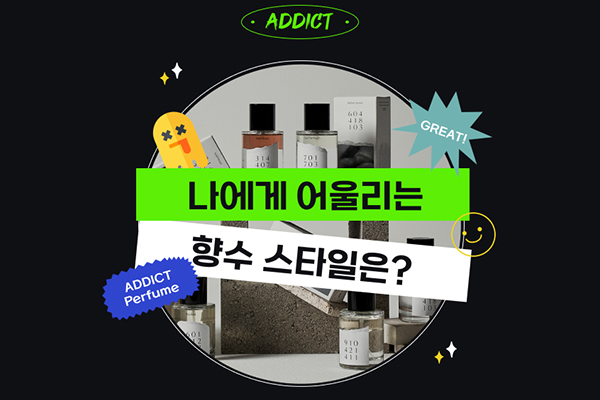
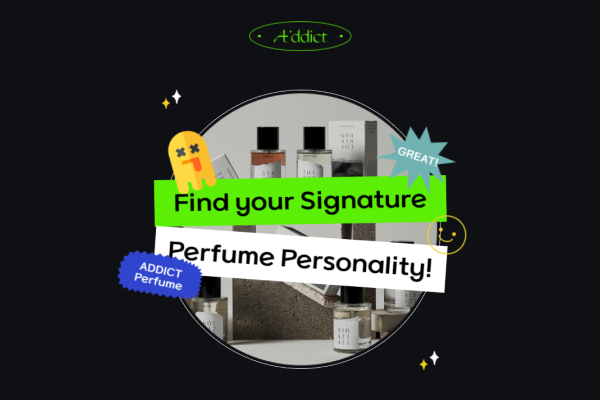
update mbti

Changed region(s): [[0.15, 0.0, 0.84, 0.99], [0.69, 0.84, 0.78, 0.93]]

diff --git a/index.html b/index.html
@@ -69,10 +69,10 @@
                     <a href="javascript:;">addictfragrances</a>
                 </div>
                 <div class="value">
-                    <input type="hidden" id="EI" value="0">
-                    <input type="hidden" id="SN" value="0">
-                    <input type="hidden" id="TF" value="0">
-                    <input type="hidden" id="JP" value="0">
+                    <input type="hidden" id="ei" value="0">
+                    <input type="hidden" id="sn" value="0">
+                    <input type="hidden" id="tf" value="0">
+                    <input type="hidden" id="jp" value="0">
                 </div>
             </div>
         </div>
